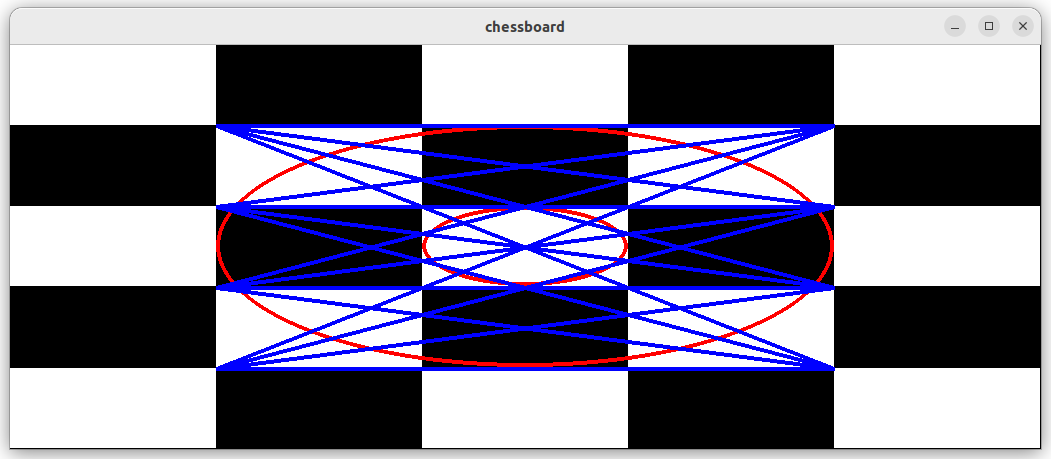
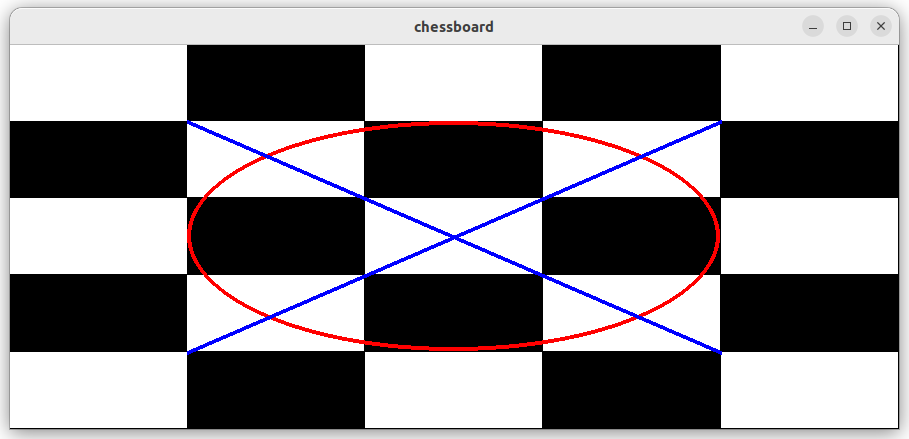
simplified drawing, more explanation added

diff --git a/opdrachten/week8/pygame00_draw/chess_solution.py b/opdrachten/week8/pygame00_draw/chess_solution.py
@@ -19,7 +19,7 @@ def main():
         width, height = surface.get_size()
 
         line_thickness=4
-        n=5
+        n=8
         rect_width=width/n
         rect_height=height/n
         white=(255,255,255)
@@ -30,16 +30,17 @@ def main():
                     pygame.draw.rect(surface, white, rect)
 
         red = (255,0,0)
-        for i in range(1,math.ceil(n/2)):
-            ellipse = (i*rect_width, i*rect_height, (n-i*2)*rect_width, (n-i*2)*rect_height)
-            pygame.draw.ellipse(surface, red, ellipse, line_thickness)
+        ellipse = (rect_width, rect_height, width-rect_width*2, height-rect_height*2)
+        pygame.draw.ellipse(surface, red, ellipse, line_thickness)
                     
         blue = (0,0,255)
-        for i in range(1,n):
-            for j in range(1,n):
-                start_pos = (rect_width      , rect_height*i)
-                end_pos   = (rect_width*(n-1), rect_height*j)
-                pygame.draw.line(surface, blue, start_pos, end_pos, line_thickness)
+        p1 = (rect_width, rect_height)
+        p2 = (width-rect_width, height-rect_height)
+        pygame.draw.line(surface, blue, p1, p2, line_thickness)
+        p1 = (width-rect_width, rect_height)
+        p2 = (rect_width, height-rect_height)
+        pygame.draw.line(surface, blue, p1, p2, line_thickness)
+        
             
         pygame.display.flip()
         clock.tick(60) # run at 60 frames per second

diff --git a/opdrachten/week8/pygame00_draw/index.md b/opdrachten/week8/pygame00_draw/index.md
@@ -1,18 +1,87 @@
 # Pygame Drawing
 
 We gaan ons eigen computerspel maken met gebruik van de `pygame`
-module. Installeer `pygame` met:
+module. Installeer eerst `pygame` met:
 
 ```console
 $ pip install pygame
 ```
+# Draw.py
 
 Programma [draw.py](draw.py) laat zien hoe we kunnen tekening met
-pygame. Als we dit programma uitvoeren zien we een window met witte
+pygame. In het programma wordt eerst een window aangemaakt met naam
+'drawing'. Vervolgens starten we een loop waarin we steeds het window
+vullen met de kleur zwart om vervolgens steeds witte 'rectangles', een
+rode 'ellipse' en blauwe 'line' te tekenen. 
+
+In het programma wordt daarnaast een 'clock' object gebruikt om te
+zorgen dat de loop niet meer dan 60 keer per seconden wordt
+uitgevoerd. De loop stopt als het programma een `pygame.QUIT` event
+ontvangt, dat gebeurt als de gebruiker het window sluit.
+
+```python
+import pygame
+
+def main():
+    pygame.init()
+    display = pygame.display.set_mode((800, 600), pygame.RESIZABLE)  # create a display window
+    pygame.display.set_caption('drawing')
+    clock = pygame.time.Clock()
+    background_colour = (0, 0, 0)  # set background_color Red,Green,Blue components (black)
+
+    running = True
+    while running: # keep looping 
+        display.fill(background_colour)  # fill display with background_colour
+        
+        for event in pygame.event.get():
+            if event.type == pygame.QUIT:  # stop loop if display window is closed
+                running = False
+
+        surface = pygame.display.get_surface()
+        width, height = surface.get_size()  # get size of display
+
+        
+        # draw white rectangles
+        white = (255, 255, 255)  # color
+        rect = pygame.Rect(0, 0, width / 2, height / 2)  # create a rectangle
+        pygame.draw.rect(surface, white, rect, 4)  # draw rectangle with line_width 4
+        rect = pygame.Rect(width / 2, height / 2, width / 2, height / 2)  # create a rectangle
+        pygame.draw.rect(surface, white, rect, 0)  # draw rectangle filled in
+
+        # draw red ellipse
+        red = (255,0,0)
+        ellipse = (0, height / 2, width / 2, height / 2)
+        pygame.draw.ellipse(surface, red, ellipse, 4)
+
+        # draw blue line
+        blue = (0,0,255)
+        start_pos = (width / 2      , 0)
+        end_pos   = (width          , height / 2)
+        pygame.draw.line(surface, blue, start_pos, end_pos, 4)
+        
+        
+        pygame.display.flip()  # update display with drawings
+        clock.tick(60)  # run loop at 60 frames per second
+
+if __name__ == "__main__":
+    main()
+```
+
+Als we dit programma uitvoeren zien we een window met witte
 rechthoeken, een rode ellips, en een blauwe lijn die ieder een kwart
 van het window beslaan, ook als we het window van grootte veranderen.
 
 ![draw.png](draw.png)
+
+## Assenstelsel
+
+In het assenstelsel van `pygame` bevindt de oorsprong, het punt (0,0),
+zich in de linker bovenhoek. De X-as is horizontaal en de Y-as
+vertikaal. Het punt in de rechter benedenhoek is het coordinaat
+(width,height) waar 'width' en 'height' de huidige breedte en hoogte
+van het window zijn die initieel op 800 en 600 worden gezet.
+
+![coordinate_system.png](coordinate_system.png)
 
 ## Opdracht: Chess
 

diff --git a/opdrachten/week8/pygame07_sticky_units/index.md b/opdrachten/week8/pygame07_sticky_units/index.md
@@ -22,7 +22,7 @@ vastplakken.
 
 Om dit probleem op te lossen kunnen we in de `handle_collision()`
 functie in [main.py](main.py) beter naast de `speed` wisselen met
-methodw `unit.swap_speed(other)`, ook de unit die de botsing
+methode `unit.swap_speed(other)`, ook de unit die de botsing
 veroorzaakt een stap terugzetten met methode `unit.step_back()`:
 
 ```python
